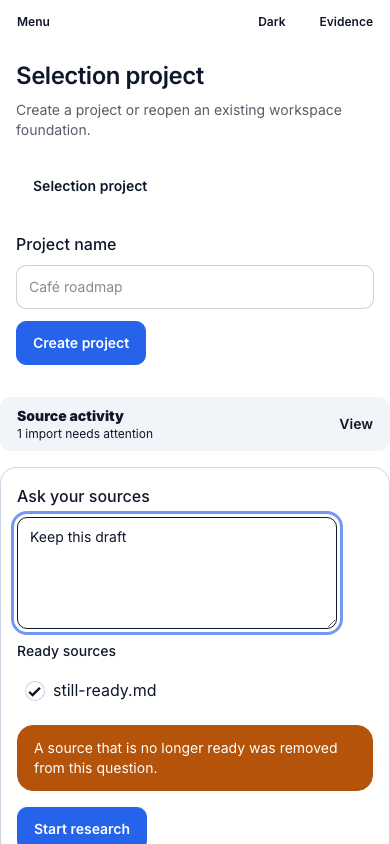
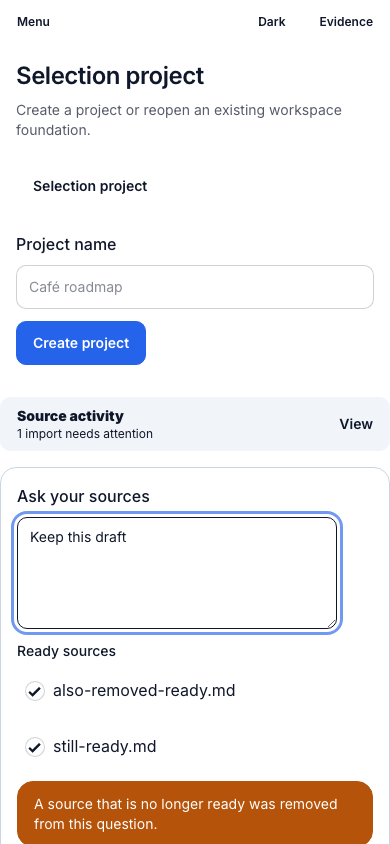
test(web): cover plural removed sources

Changed region(s): [[0.0308, 0.8009, 0.9538, 1.0]]

diff --git a/apps/web/e2e/conversation.spec.ts b/apps/web/e2e/conversation.spec.ts
@@ -9,6 +9,8 @@ const origin = 'http://127.0.0.1:4182'
 const projectId = 'd50e8400-e29b-41d4-a716-446655440001'
 const sourceId = 'd50e8400-e29b-41d4-a716-446655440002'
 const sourceVersionId = 'd50e8400-e29b-41d4-a716-446655440003'
+const secondRemovedSourceId = 'd50e8400-e29b-41d4-a716-446655440017'
+const secondRemovedSourceVersionId = 'd50e8400-e29b-41d4-a716-446655440018'
 const remainingSourceId = 'd50e8400-e29b-41d4-a716-446655440015'
 const remainingSourceVersionId = 'd50e8400-e29b-41d4-a716-446655440016'
 const threadId = 'd50e8400-e29b-41d4-a716-446655440004'
@@ -42,16 +44,18 @@ afterAll(async () => {
 })
 
 describe('source-grounded conversation browser path', () => {
-  it('removes a selected source that becomes unavailable while preserving the draft and remaining submission', async () => {
+  it('removes selected sources that become unavailable while preserving the draft and remaining submission', async () => {
     const viewports = [
       { width: 1440, height: 900 },
       { width: 390, height: 844 },
     ]
-    for (const theme of ['light', 'dark'] as const) {
-      for (const viewport of viewports) {
+    for (const removedCount of [1, 2] as const) {
+      for (const theme of ['light', 'dark'] as const) {
+        for (const viewport of viewports) {
         const page = await browser.newPage({ viewport, reducedMotion: 'reduce' })
         const submitted: unknown[] = []
         let sourceIsReady = true
+        let secondRemovedSourceIsReady = true
         let releaseActivity: (() => void) | undefined
         let activityConnectedResolve: (() => void) | undefined
         const activityConnected = new Promise<void>((resolve) => {
@@ -76,7 +80,7 @@ describe('source-grounded conversation browser path', () => {
           }
           if (pathname === `/api/projects/${projectId}/sources`) {
             return json({
-              cursor: sourceIsReady ? '0' : '1',
+              cursor: sourceIsReady && secondRemovedSourceIsReady ? '0' : '1',
               items: [
                 {
                   sourceId,
@@ -88,6 +92,17 @@ describe('source-grounded conversation browser path', () => {
                   readiness: sourceIsReady ? 'ready' : 'failed',
                   updatedAt: 1,
                   job: { id: jobId, status: sourceIsReady ? 'completed' : 'failed', attempts: 1, maxAttempts: 3, updatedAt: 1 },
+                },
+                {
+                  sourceId: secondRemovedSourceId,
+                  name: 'also-removed-ready.md',
+                  kind: 'document',
+                  mediaType: 'text/markdown',
+                  latestVersionId: secondRemovedSourceIsReady ? secondRemovedSourceVersionId : null,
+                  latestVersion: secondRemovedSourceIsReady ? 1 : null,
+                  readiness: secondRemovedSourceIsReady ? 'ready' : 'failed',
+                  updatedAt: 1,
+                  job: { id: jobId, status: secondRemovedSourceIsReady ? 'completed' : 'failed', attempts: 1, maxAttempts: 3, updatedAt: 1 },
                 },
                 {
                   sourceId: remainingSourceId,
@@ -109,13 +124,15 @@ describe('source-grounded conversation browser path', () => {
             return route.fulfill({
               status: 200,
               contentType: 'text/event-stream',
-              body: `id: 1\nevent: ingestion-failed\ndata: ${JSON.stringify({
-                id: eventId,
-                cursor: '1',
-                sourceId,
-                type: 'ingestion-failed',
-                createdAt: 2,
-              })}\n\n`,
+              body: [sourceId, ...(removedCount === 2 ? [secondRemovedSourceId] : [])].map((failedSourceId, index) => (
+                `id: ${index + 1}\nevent: ingestion-failed\ndata: ${JSON.stringify({
+                  id: `${eventId.slice(0, -1)}${index + 3}`,
+                  cursor: '1',
+                  sourceId: failedSourceId,
+                  type: 'ingestion-failed',
+                  createdAt: 2,
+                })}\n\n`
+              )).join(''),
             })
           }
           if (pathname === `/api/projects/${projectId}/research` && request.method() === 'GET') {
@@ -132,20 +149,32 @@ describe('source-grounded conversation browser path', () => {
         })
 
         await page.goto(`${origin}/projects/${projectId}`)
-        await page.getByRole('checkbox', { name: 'removed-ready.md' }).waitFor()
+        await page.getByRole('checkbox', { name: 'removed-ready.md', exact: true }).waitFor()
         await activityConnected
-        const removedCheckbox = page.getByRole('checkbox', { name: 'removed-ready.md' })
+        const removedCheckbox = page.getByRole('checkbox', { name: 'removed-ready.md', exact: true })
+        const secondRemovedCheckbox = page.getByRole('checkbox', { name: 'also-removed-ready.md' })
         await removedCheckbox.uncheck()
         await removedCheckbox.check()
+        await secondRemovedCheckbox.uncheck()
+        await secondRemovedCheckbox.check()
         await page.getByRole('textbox', { name: 'Ask your sources' }).fill('Keep this draft')
 
         sourceIsReady = false
+        secondRemovedSourceIsReady = removedCount === 1
         releaseActivity?.()
 
         const status = page.getByRole('status')
         await status.waitFor()
-        expect(await status.textContent()).toBe('A source that is no longer ready was removed from this question.')
-        expect(await page.getByRole('checkbox', { name: 'removed-ready.md' }).count()).toBe(0)
+        expect(await status.textContent()).toBe(
+          removedCount === 1
+            ? 'A source that is no longer ready was removed from this question.'
+            : '2 sources that are no longer ready were removed from this question.',
+        )
+        expect(await page.getByRole('checkbox', { name: 'removed-ready.md', exact: true }).count()).toBe(0)
+        expect(await page.getByRole('checkbox', { name: 'also-removed-ready.md' }).count()).toBe(removedCount === 1 ? 1 : 0)
+        if (removedCount === 1) {
+          expect(await page.getByRole('checkbox', { name: 'also-removed-ready.md' }).isChecked()).toBe(true)
+        }
         expect(await page.getByRole('checkbox', { name: 'still-ready.md' }).isChecked()).toBe(true)
         expect(await page.getByRole('textbox', { name: 'Ask your sources' }).inputValue()).toBe('Keep this draft')
         expect(await page.evaluate(() => {
@@ -153,7 +182,9 @@ describe('source-grounded conversation browser path', () => {
           return key === undefined ? null : JSON.parse(window.sessionStorage.getItem(key) ?? 'null')
         })).toEqual({
           draft: 'Keep this draft',
-          selected: [remainingSourceVersionId],
+          selected: removedCount === 1
+            ? [remainingSourceVersionId, secondRemovedSourceVersionId]
+            : [remainingSourceVersionId],
           selectionTouched: true,
         })
         await waitForThemeStyles(page, theme)
@@ -167,17 +198,20 @@ describe('source-grounded conversation browser path', () => {
         expect(overflow.document).toBeLessThanOrEqual(overflow.viewport)
         expect(overflow.body).toBeLessThanOrEqual(overflow.viewport)
         await page.screenshot({
-          path: path.join(removedSourceScreenshotRoot, `${viewport.width}x${viewport.height}-${theme}.png`),
+          path: path.join(removedSourceScreenshotRoot, `${removedCount === 1 ? '' : 'plural-'}${viewport.width}x${viewport.height}-${theme}.png`),
           fullPage: false,
         })
         await page.getByRole('button', { name: 'Start research' }).click()
         await page.waitForURL(`**/projects/${projectId}/research/${threadId}/runs/${firstRunId}`)
         expect(submitted).toEqual([{
           question: 'Keep this draft',
-          sourceVersionIds: [remainingSourceVersionId],
+          sourceVersionIds: removedCount === 1
+            ? [remainingSourceVersionId, secondRemovedSourceVersionId]
+            : [remainingSourceVersionId],
         }])
         await page.close()
       }
+    }
     }
   })
 

diff --git a/.agent-vault/03_Bugs/BUG-0089_removed-source-selection-notice-lacks-browser-coverage.md b/.agent-vault/03_Bugs/BUG-0089_removed-source-selection-notice-lacks-browser-coverage.md
@@ -83,7 +83,7 @@ Use one note per bug. Capture reproduction, impact, root cause, workaround, and 
   5. Asserts the draft textarea still holds the preserved text after reconciliation.
   6. Captures theme (light/dark) and responsive breakpoint screenshots of the notice state.
 - Update `.local/ui-audit/inventory.md` Route 8 `Selection notice (removed source)` row to `e2e Covered: ✅`.
-Implemented 2026-08-04: `conversation.spec.ts` now holds the source-activity stream until both sources are selected and a draft is entered, then emits an `ingestion-failed` event while the next catalog response marks one source failed. The browser case asserts the singular `role=status` warning, removed checkbox, remaining selected version, exact sessionStorage draft state, and POST payload containing only the still-ready version. It captures the reconciled state at 1440×900 and 390×844 in both struct light and dark themes without horizontal overflow. `.local/ui-audit/inventory.md` Route 8 now records the e2e coverage.
+Implemented 2026-08-04: `conversation.spec.ts` now holds the source-activity stream until selected sources and a draft are entered, then emits `ingestion-failed` events while the next catalog response marks one or two sources failed. The browser case asserts both the singular and plural `role=status` warnings, removed checkboxes, reconciled selection, exact sessionStorage draft state, and POST payload containing only still-ready versions. It captures the reconciled state at 1440×900 and 390×844 in both struct light and dark themes without horizontal overflow. `.local/ui-audit/inventory.md` Route 8 now records the e2e coverage.
 
 ## Regression Coverage Needed
 
